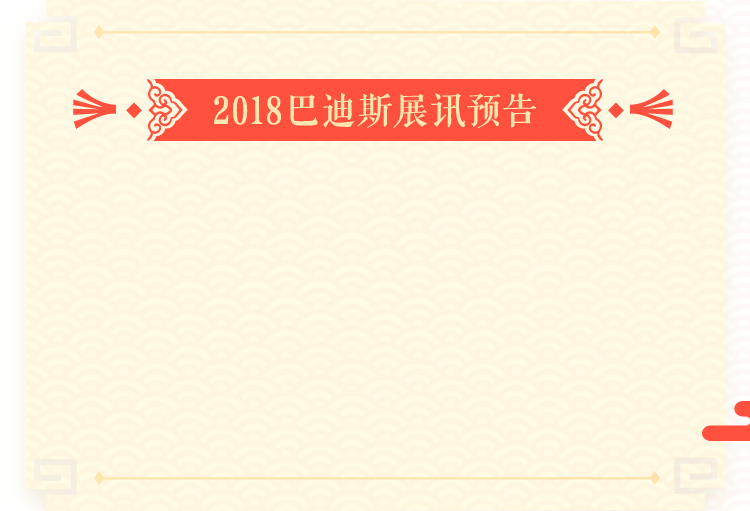
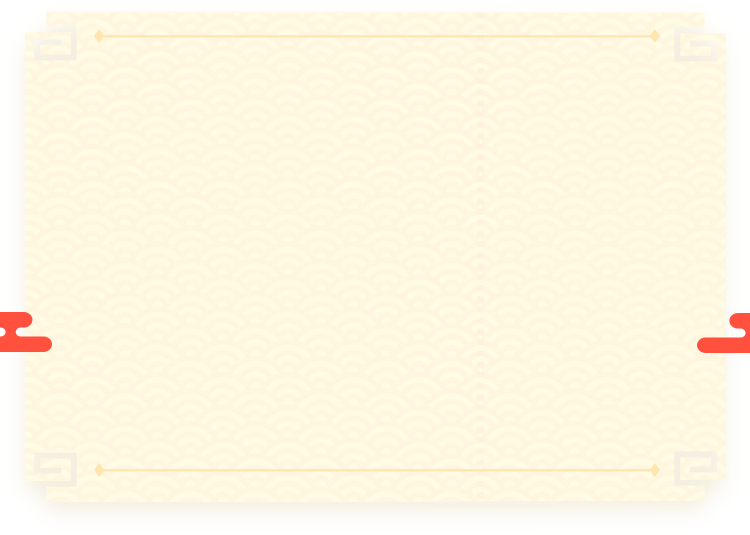
xx

diff --git a/index.html b/index.html
@@ -146,131 +146,12 @@
 					<div class="danmu3">
 					</div>
 				</div>
-				<input type="image" class="share" src="img/shareNow.png">
-			</div>
-			<div class="friend">
-				<div class="title">
-					<img src="img/title.png" />
-				</div>
-				<div class="fContent">
-					<div class="left">
-						<img src="img/left.png" />
-					</div>
-					<div class="right">
-						<img src="img/right.png" />
-					</div>
-					<div class="fChild">
-						<div class="fLeft floatl">
-							<div class="fHead">
-								<img src="img/head.png" />
-							</div>
-						</div>
-						<div class="fMiddle floatl">
-							<ul>
-								<li>
-									<p>王文杰&nbsp;<span>2018-02-18</span></p>
-								</li>
-								<li>
-									<p>2018新年快乐，巴迪斯万岁！！</p>
-								</li>
-							</ul>
-						</div>
-						<div class="fRight floatr">
-							<p>66.66元</p>
-						</div>
-						<div class="clearBoth"></div>
-					</div>
-					<div class="fChild">
-						<div class="fLeft floatl">
-							<div class="fHead">
-								<img src="img/head.png" />
-							</div>
-						</div>
-						<div class="fMiddle floatl">
-							<ul>
-								<li>
-									<p>王文杰&nbsp;<span>2018-02-18</span></p>
-								</li>
-								<li>
-									<p>2018新年快乐，巴迪斯万岁！！</p>
-								</li>
-							</ul>
-						</div>
-						<div class="fRight floatr">
-							<p>66.66元</p>
-						</div>
-						<div class="clearBoth"></div>
-					</div>
-					<div class="fChild">
-						<div class="fLeft floatl">
-							<div class="fHead">
-								<img src="img/head.png" />
-							</div>
-						</div>
-						<div class="fMiddle floatl">
-							<ul>
-								<li>
-									<p>王文杰&nbsp;<span>2018-02-18</span></p>
-								</li>
-								<li>
-									<p>2018新年快乐，巴迪斯万岁！！</p>
-								</li>
-							</ul>
-						</div>
-						<div class="fRight floatr">
-							<p>66.66元</p>
-						</div>
-						<div class="clearBoth"></div>
-					</div>
-					<div class="fChild">
-						<div class="fLeft floatl">
-							<div class="fHead">
-								<img src="img/head.png" />
-							</div>
-						</div>
-						<div class="fMiddle floatl">
-							<ul>
-								<li>
-									<p>王文杰&nbsp;<span>2018-02-18</span></p>
-								</li>
-								<li>
-									<p>2018新年快乐，巴迪斯万岁！！</p>
-								</li>
-							</ul>
-						</div>
-						<div class="fRight floatr">
-							<p>66.66元</p>
-						</div>
-						<div class="clearBoth"></div>
-					</div>
-					<div class="fChild">
-						<div class="fLeft floatl">
-							<div class="fHead">
-								<img src="img/head.png" />
-							</div>
-						</div>
-						<div class="fMiddle floatl">
-							<ul>
-								<li>
-									<p>王文杰&nbsp;<span>2018-02-18</span></p>
-								</li>
-								<li>
-									<p>2018新年快乐，巴迪斯万岁！！</p>
-								</li>
-							</ul>
-						</div>
-						<div class="fRight floatr">
-							<p>66.66元</p>
-						</div>
-						<div class="clearBoth"></div>
-					</div>
-				</div>
-				<div class="bottom">
-					<img src="img/bottom.png" />
-				</div>
 			</div>
 			<div class="picBox">
 				<img src="img/pic.png" />
+				<div class="titles">
+					<img src="img/titles.png" />
+				</div>
 				<div class="picImg">
 					<div class="floatl">
 						<a href="http://v7.rabbitpre.com/m/7vuYjm9?lc=2&sui=JvrM3Tdv&from=timeline&isappinstalled=0#from=share">
@@ -292,12 +173,15 @@
 					</div>
 					<div class="clearl"></div>
 				</div>
-			</div>
-			<div class="knowMore">
-				<a href="http://v7.rabbitpre.com/m/7vuYjm9?lc=2&sui=JvrM3Tdv&from=timeline&isappinstalled=0#from=share"><img src="img/know.png"/></a>
-			</div>
-			<div class="shareLeft">
-				<img src="img/left.png" />
+				<div class="shareBox">
+					<div class="share floatl">
+						<input type="image" src="img/shareNow.png">
+					</div>
+					<div class="knowMore floatl">
+						<a href="http://v7.rabbitpre.com/m/7vuYjm9?lc=2&sui=JvrM3Tdv&from=timeline&isappinstalled=0#from=share"><img src="img/know.png" /></a>
+					</div>
+					<div class="clearl"></div>
+				</div>
 			</div>
 		</div>
 		<!--分享-->

diff --git a/css/index.css b/css/index.css
@@ -450,7 +450,8 @@ body {
       width: 100%; }
     #getRed .redTop .money {
       position: absolute;
-      top: 21.6%;
+      top: 26%;
+      top: 1.2rem;
       text-align: center;
       left: 0%;
       width: 100%;
@@ -462,7 +463,7 @@ body {
       position: absolute;
       bottom: auto;
       width: 0.3rem;
-      top: 36.2%;
+      top: 50%;
       right: auto;
       left: 20.27%;
       animation: aniLoad01 1s linear infinite;
@@ -491,11 +492,11 @@ body {
     #getRed .redTop .danmu {
       position: absolute;
       left: 0;
-      top: 38%;
+      top: 50%;
       height: 30%;
       width: 100%; }
       #getRed .redTop .danmu > div {
-        height: 33.3333%;
+        height: 50%;
         position: relative; }
     #getRed .redTop .danBox {
       margin-right: 10px; }
@@ -580,15 +581,23 @@ body {
     .friend .bottom img {
       width: 100%; }
 
+.titles {
+  position: absolute;
+  width: 73.06%;
+  left: 13.47%;
+  top: 11%; }
+  .titles img {
+    margin-bottom: 0px; }
+
 .picBox {
-  padding: 0.4rem 0;
   width: 100%;
-  position: relative; }
+  position: absolute;
+  bottom: 0; }
   .picBox .picImg {
     width: 79.2%;
     position: absolute;
     left: 10.4%;
-    top: 35%; }
+    top: 25%; }
     .picBox .picImg .floatl {
       width: 47.5%;
       margin-right: 5%; }
@@ -600,24 +609,31 @@ body {
     .picBox .picImg .floatl:nth-last-child(2) {
       margin-right: 0%; }
   .picBox img {
-    width: 100%;
-    margin-bottom: 5px; }
+    width: 100%; }
   .picBox p {
     font-size: 8px;
     line-height: 0.3rem;
     color: #333333; }
   .picBox p:nth-child(2) {
+    margin-top: 0.05rem;
     font-size: 10px;
     color: #fa5d3d;
     font-weight: bold; }
 
-.knowMore {
-  width: 79.73%;
-  margin: 0 auto; }
-  .knowMore a {
-    display: block;
-    width: 100%; }
-    .knowMore a img {
+.shareBox {
+  width: 100%;
+  padding: 0.05rem 0 0.22rem; }
+  .shareBox .share {
+    width: 43.47%;
+    margin-left: 3.7%; }
+    .shareBox .share input {
+      width: 100%;
+      display: block; }
+  .shareBox .knowMore {
+    width: 43.47%;
+    margin-left: 6.7%; }
+    .shareBox .knowMore a {
+      display: block;
       width: 100%; }
 
 .shareLeft {

diff --git a/css/index.scss b/css/index.scss
@@ -488,7 +488,8 @@ body{
         }
         .money{
             position: absolute;
-            top: 21.6%;
+            top: 26%;
+            top: 1.2rem;
             text-align: center;
             left: 0%;
             width: 100%;
@@ -501,7 +502,7 @@ body{
             position: absolute;
             bottom: auto;
             width: 0.3rem;
-            top: 36.2%;
+            top: 50%;
             right: auto;
             left: 20.27%;
             animation: aniLoad01 1s linear infinite;
@@ -535,11 +536,11 @@ body{
         .danmu{
             position: absolute;
             left: 0;
-            top: 38%;
+            top: 50%;
             height: 30%;
             width: 100%;
             >div{
-                height: 33.3333%;
+                height: 50%;
                 position: relative;
             }
         }
@@ -651,15 +652,25 @@ body{
         }
     }
 }
+.titles{
+    position: absolute;
+    width: 73.06%;
+    left: 13.47%;
+    top: 11%;
+    img{
+       margin-bottom: 0px; 
+    }
+    
+}
 .picBox{
-    padding: 0.4rem 0;
     width: 100%;
-    position: relative;
+    position: absolute;
+    bottom: 0;
     .picImg{
         width: 79.2%;
         position: absolute;
         left: 10.4%;
-        top: 35%;
+        top: 25%;
         .floatl{
             width:47.5%;
             margin-right: 5%;
@@ -677,7 +688,6 @@ body{
     }
     img{
         width: 100%;
-        margin-bottom: 5px;
     }
     p{
         font-size: 8px;
@@ -685,18 +695,28 @@ body{
         color: #333333;
     }
     p:nth-child(2){
+        margin-top: 0.05rem;
         font-size: 10px;
         color: #fa5d3d;
         font-weight: bold;
     }
 }
-.knowMore{
-    width: 79.73%;
-    margin: 0 auto;
-    a{
-        display: block;
-        width: 100%;
-        img{
+.shareBox{
+    width: 100%;
+    padding: 0.05rem 0 0.22rem;
+    .share{
+        width: 43.47%;
+        margin-left: 3.7%;
+        input{
+            width: 100%;
+            display: block;
+        }
+    }
+    .knowMore{
+        width: 43.47%;
+        margin-left: 6.7%;
+        a{
+            display: block;
             width: 100%;
         }
     }

diff --git a/js/index.js b/js/index.js
@@ -1,7 +1,7 @@
 $(function(){
 	$('.delete').remove();
-	loading();
-//	showRed();
+//	loading();
+	showRed();
 	var music = 0;
 	var musicOpen = true;
 	var musicTween = setInterval(function() {
@@ -29,6 +29,10 @@ $(function(){
 		}
 	
 	});
+	if($(window).height()<530)
+	{
+		$('.money').css('top','27.5%');
+	}
 });
 
 //显示红包页面
@@ -40,7 +44,7 @@ function showRed(){
 		mydata = data;
 		addDanmu('.danmu1','danmuBox1',mydata,25);
 		addDanmu('.danmu2','danmuBox2',mydata,30);
-		addDanmu('.danmu3','danmuBox3',mydata,20);
+//		addDanmu('.danmu3','danmuBox3',mydata,20);
 	});
 	$('.share').on('click',function(){
 		$('#sharing').show();
